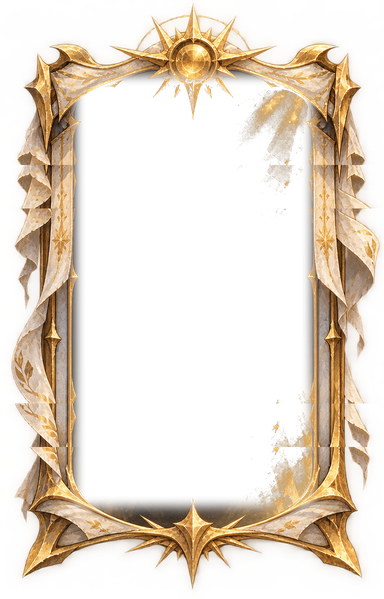
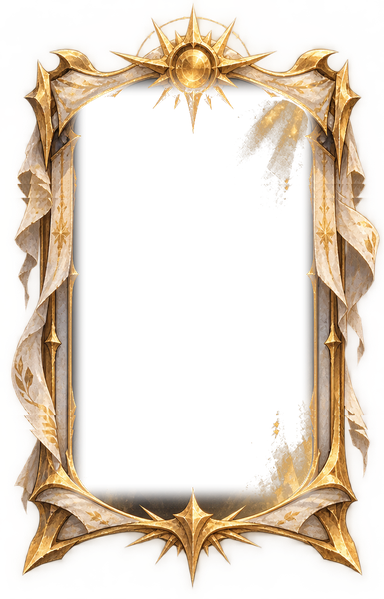
Card frames sit on the card's edge, ornaments outside
The frame assets are rebuilt so their opening has the card ratio, and
both renderers map the opening onto the card inset a quarter em: the
inner bar just covers the card border and nothing of the art or rules
is hidden. The rules box goes back to its normal insets. build_frames.py
prints the opening geometry the renderers use.

Claude-Session: https://claude.ai/code/session_016oSG87kzgjESJLEGKvgPZS

Changed region(s): [[0.0312, 0.0, 1.0, 0.9616]]

diff --git a/ios/Ruinaccord/Views/CardViews.swift b/ios/Ruinaccord/Views/CardViews.swift
@@ -23,7 +23,8 @@ struct CardView: View {
         let em = size.em, cjk = vm.lang.isCJK, tx = vm.tx
         let cost = ovr?.cost ?? card.cost
         let spell = !card.isMinion, leg = card.isLegendary
-        // Legendaries wear the painted gold frame, one-copy class epics the purple one; the rules box moves in to fit the opening.
+        // Legendaries wear the painted gold frame, one-copy class epics the purple one: its opening sits on the card's
+        // edge, so the ornaments hang outside and cover neither the art nor the rules.
         let framed = leg || card.uniq
         let frame = leg ? Color(hex: "#e8b24a") : spell ? Color(hex: "#6c58b8") : Color(hex: "#8a6a3a")
         let artBg: [Color] = leg ? [Color(hex: "#6a2a1a"), Color(hex: "#1a0806")] : spell ? [Color(hex: "#3d2f6e"), Color(hex: "#100a20")] : [Color(hex: "#5a4636"), Color(hex: "#120d16")]
@@ -66,8 +67,8 @@ struct CardView: View {
             }
             .padding(.horizontal, 0.55 * em)
             .padding(.top, 0.85 * em)
-            .padding(.bottom, card.isMinion && !framed ? 1.25 * em : 0.55 * em)
-            .frame(maxWidth: .infinity, minHeight: 15.6 * em * (framed ? 0.34 : 0.4), alignment: .topLeading)
+            .padding(.bottom, card.isMinion ? 1.25 * em : 0.55 * em)
+            .frame(maxWidth: .infinity, minHeight: 15.6 * em * 0.4, alignment: .topLeading)
             .background(Color(hex: "#0e0a12").opacity(0.66), in: RoundedRectangle(cornerRadius: 0.5 * em))
             .overlay(RoundedRectangle(cornerRadius: 0.5 * em).stroke(Color(hex: "#e8c35a").opacity(0.35), lineWidth: 0.08 * em))
             .overlay(alignment: .top) {
@@ -78,14 +79,15 @@ struct CardView: View {
                     .shadow(color: leg ? Theme.rarityColor("l") : .clear, radius: 0.4 * em)
                     .offset(y: -0.42 * em)
             }
-            .padding(.horizontal, framed ? 1.15 * em : 0.35 * em)
-            .padding(.top, 0.35 * em)
-            .padding(.bottom, framed ? 1.45 * em : 0.35 * em)
+            .padding(0.35 * em)
             .frame(maxHeight: .infinity, alignment: .bottom)
             if framed {
+                // The opening is mapped to the card inset by a quarter em, so the inner bar just covers the card's border.
+                let g = leg ? FrameGeo.gold : FrameGeo.purple
+                let w = (10 * em - 0.5 * em) / (g.x1 - g.x0), h = w / g.aspect
                 Image(leg ? "frame_gold" : "frame_purple").resizable()
-                    .frame(width: 11.4 * em, height: 15.6 * em * 1.14)
-                    .position(x: 5 * em, y: 7.8 * em)
+                    .frame(width: w, height: h)
+                    .position(x: 5 * em + (0.5 - (g.x0 + g.x1) / 2) * w, y: 7.8 * em + (0.5 - (g.y0 + g.y1) / 2) * h)
                     .allowsHitTesting(false)
             }
             // The gems ride on the corners of the card, a little past its edge.
@@ -105,6 +107,13 @@ struct CardView: View {
         }
         .frame(width: 10 * em, height: 15.6 * em)
     }
+}
+
+/// Where the opening sits in a painted frame image, as fractions (printed by art/frames/build_frames.py).
+private struct FrameGeo {
+    let aspect: CGFloat, x0: CGFloat, x1: CGFloat, y0: CGFloat, y1: CGFloat
+    static let gold = FrameGeo(aspect: 768 / 1075, x0: 0.1953, x1: 0.8138, y0: 0.1395, y1: 0.8288)
+    static let purple = FrameGeo(aspect: 768 / 1082, x0: 0.1758, x1: 0.8333, y0: 0.1155, y1: 0.8438)
 }
 
 private struct ArtShape: Shape {

diff --git a/beta/index.html b/beta/index.html
@@ -152,10 +152,11 @@ button:focus-visible{outline:2px solid var(--gold);outline-offset:2px}
 .card.s{border-color:#6c58b8}
 .card.leg{border-color:#e8b24a}.card.uniq{border-color:#a35ad6}
 /* Legendaries wear the painted gold frame, one-copy class epics the purple one (img/frame_*.png, cut out in the
-   middle); it overhangs the card a little and the rules box moves in to fit its opening. */
-.card.leg::before,.card.uniq::before{content:"";position:absolute;left:-7%;right:-7%;top:-7%;bottom:-7%;background:url(img/frame_gold.png) center/100% 100% no-repeat;pointer-events:none;z-index:1}
-.card.uniq::before{background-image:url(img/frame_purple.png)}
-.card.leg .tbox,.card.uniq .tbox{left:1.15em;right:1.15em;bottom:1.45em;min-height:34%;padding-bottom:.55em}
+   middle). Its opening sits on the card's edge (a quarter em in), so the ornaments hang outside and cover neither
+   the art nor the rules; sizes come from the opening geometry art/frames/build_frames.py prints. */
+.card.leg::before,.card.uniq::before{content:"";position:absolute;background:url(img/frame_gold.png) center/100% 100% no-repeat;pointer-events:none;z-index:1;
+  width:15.36em;height:21.5em;left:-2.75em;top:-2.61em}
+.card.uniq::before{background-image:url(img/frame_purple.png);width:14.45em;height:20.36em;left:-2.29em;top:-1.97em}
 .card.md{font-size:10.8px}.card.big{font-size:14px}
 .card .art{position:absolute;inset:0;border-radius:.62em;overflow:hidden;background:radial-gradient(circle at 50% 28%,#5a4636,#120d16 72%)}
 .card.s .art{background:radial-gradient(circle at 50% 28%,#3d2f6e,#100a20 72%)}

diff --git a/src/game.html b/src/game.html
@@ -133,10 +133,11 @@ button:focus-visible{outline:2px solid var(--gold);outline-offset:2px}
 .card.s{border-color:#6c58b8}
 .card.leg{border-color:#e8b24a}.card.uniq{border-color:#a35ad6}
 /* Legendaries wear the painted gold frame, one-copy class epics the purple one (img/frame_*.png, cut out in the
-   middle); it overhangs the card a little and the rules box moves in to fit its opening. */
-.card.leg::before,.card.uniq::before{content:"";position:absolute;left:-7%;right:-7%;top:-7%;bottom:-7%;background:url(img/frame_gold.png) center/100% 100% no-repeat;pointer-events:none;z-index:1}
-.card.uniq::before{background-image:url(img/frame_purple.png)}
-.card.leg .tbox,.card.uniq .tbox{left:1.15em;right:1.15em;bottom:1.45em;min-height:34%;padding-bottom:.55em}
+   middle). Its opening sits on the card's edge (a quarter em in), so the ornaments hang outside and cover neither
+   the art nor the rules; sizes come from the opening geometry art/frames/build_frames.py prints. */
+.card.leg::before,.card.uniq::before{content:"";position:absolute;background:url(img/frame_gold.png) center/100% 100% no-repeat;pointer-events:none;z-index:1;
+  width:15.36em;height:21.5em;left:-2.75em;top:-2.61em}
+.card.uniq::before{background-image:url(img/frame_purple.png);width:14.45em;height:20.36em;left:-2.29em;top:-1.97em}
 .card.md{font-size:10.8px}.card.big{font-size:14px}
 .card .art{position:absolute;inset:0;border-radius:.62em;overflow:hidden;background:radial-gradient(circle at 50% 28%,#5a4636,#120d16 72%)}
 .card.s .art{background:radial-gradient(circle at 50% 28%,#3d2f6e,#100a20 72%)}

diff --git a/art/frames/build_frames.py b/art/frames/build_frames.py
@@ -2,8 +2,9 @@
 """Card frames from art/frames/frames_src.png (gold Legendary frame left, purple one-copy Epic frame right).
 
 The middle of each frame is cut out by brightness (dark interior -> transparent, bright ornament -> opaque)
-inside the inner opening, then two straight-edge bands are duplicated so the frame has the card's 10:15.6
-ratio. Writes ios/Ruinaccord/Assets.xcassets/Frames/frame_*.imageset/frame_*.png (512 wide) and
+inside the inner opening, then two straight-edge bands are duplicated so the OPENING has the card's 10:15.6
+ratio: the frame is drawn with its opening on the card's edge, the ornaments hanging outside (the printed
+geometry goes into CardView.swift / the .card.leg CSS). Writes ios/Ruinaccord/Assets.xcassets/Frames/frame_*.imageset/frame_*.png (512 wide) and
 img/frame_*.png (384 wide). Needs Pillow and numpy:  python3 -m venv .venv && .venv/bin/pip install pillow numpy
 """
 import pathlib
@@ -27,13 +28,15 @@ def process(name, half, rect, lo, hi, bands):
     a[..., 3] = np.where(a[..., 3] >= 248, 255, a[..., 3])
     arr = a.astype(np.uint8)
     w, h = arr.shape[1], arr.shape[0]
-    extra = int(round(w / RATIO)) - h; per = extra // len(bands)
+    extra = int(round((x1 - x0) / RATIO)) - (y1 - y0); per = extra // len(bands)
     pieces, prev = [], 0
     for i, y in enumerate(bands):
         pieces.append(arr[prev:y]); n = per if i < len(bands) - 1 else extra - per * (len(bands) - 1)
         pieces.append(arr[y - n // 2:y - n // 2 + n]); prev = y
     pieces.append(arr[prev:])
     out = Image.fromarray(np.concatenate(pieces, axis=0))
+    ow, oh = out.size
+    print(f"{name}: image {ow}x{oh}, opening x {x0/ow:.4f}..{x1/ow:.4f}  y {y0/oh:.4f}..{(y1+extra)/oh:.4f}")
     ios = ROOT / f"ios/Ruinaccord/Assets.xcassets/Frames/frame_{name}.imageset/frame_{name}.png"
     out.resize((512, int(512 / RATIO)), Image.LANCZOS).save(ios, optimize=True)
     out.resize((384, int(384 / RATIO)), Image.LANCZOS).save(ROOT / f"img/frame_{name}.png", optimize=True)
